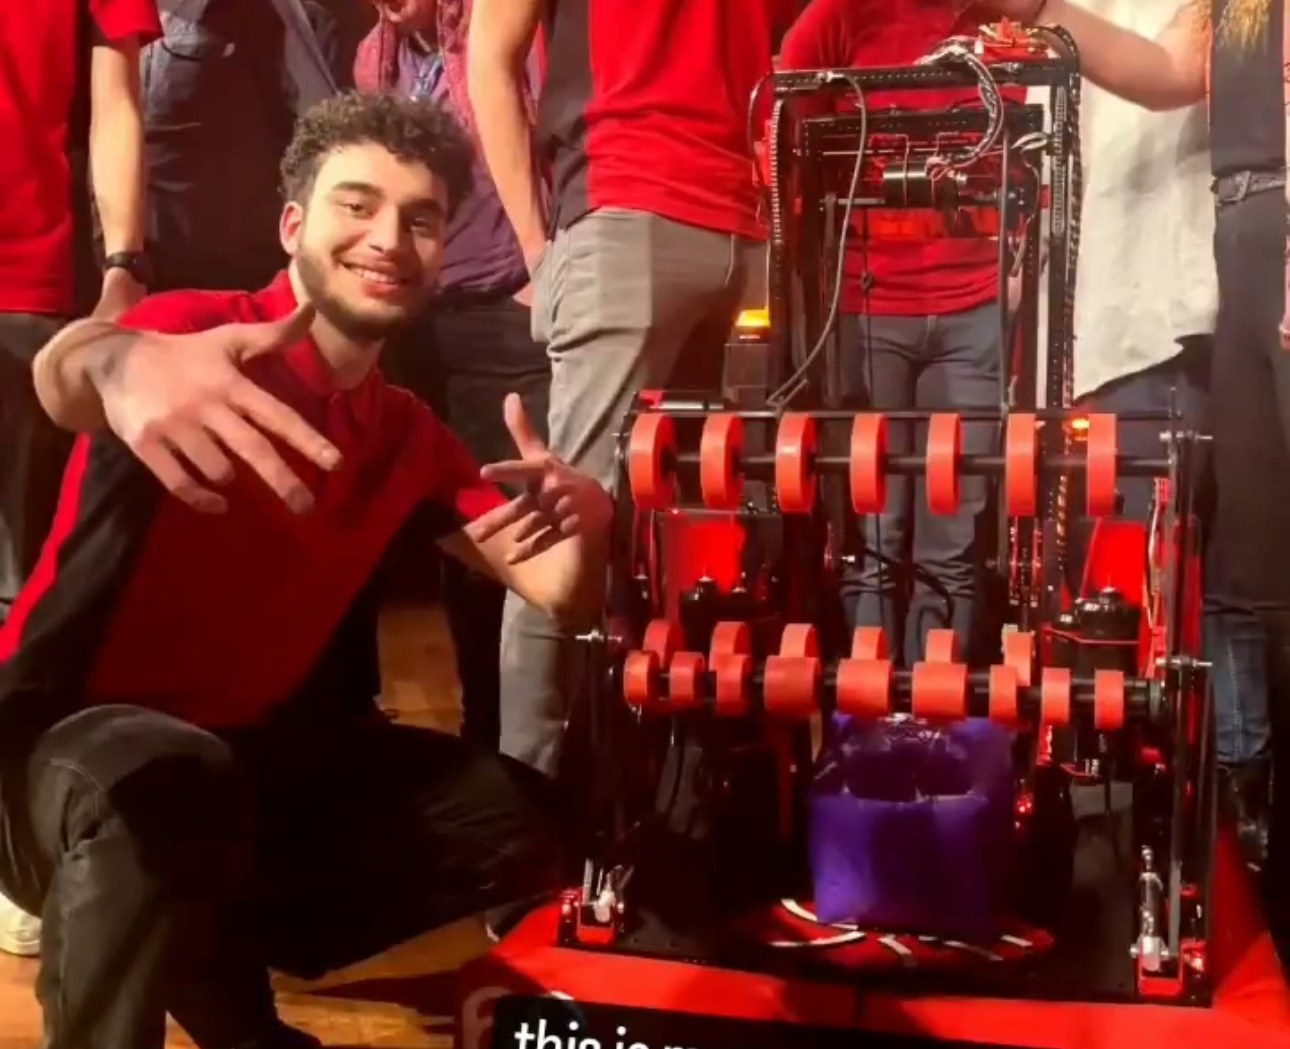
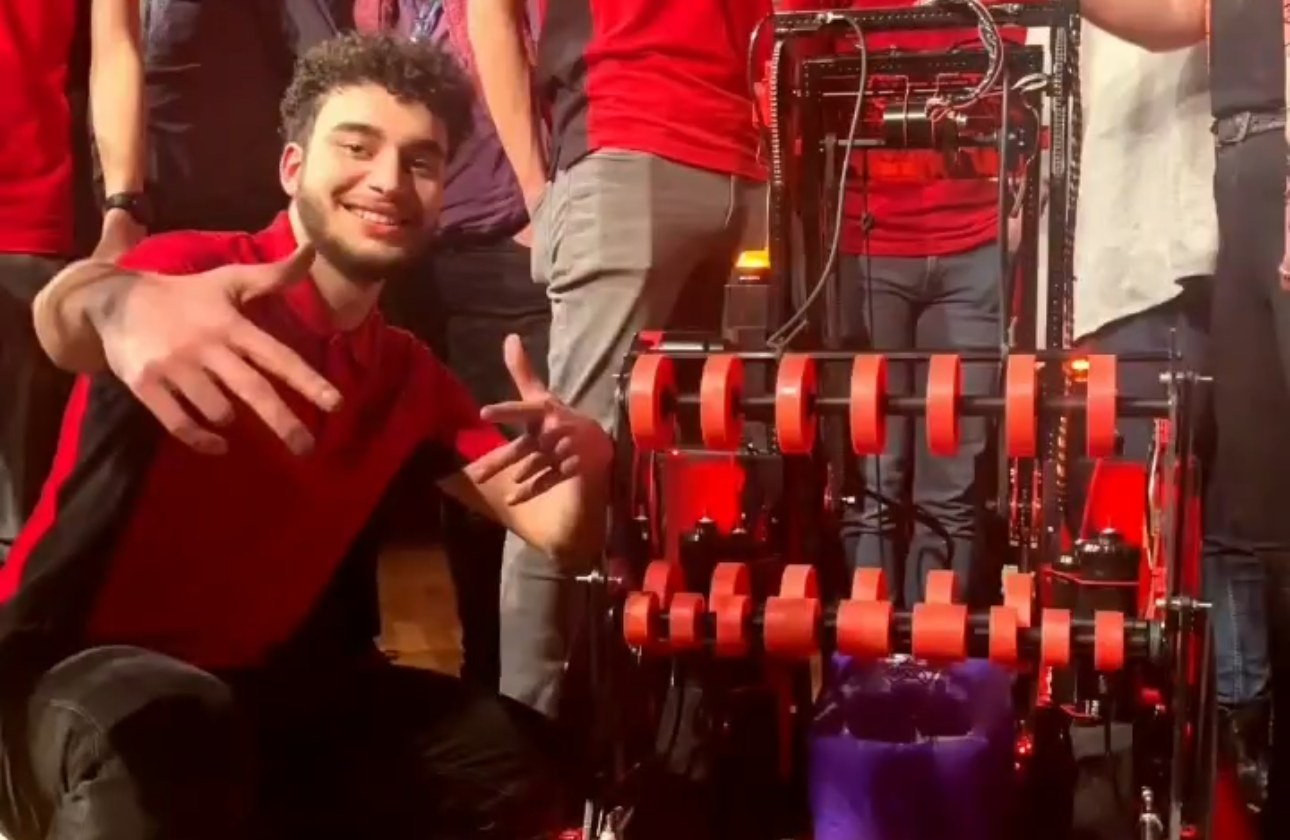
404 fallen tallbike, build page layout, tablet + reduced-motion hero fixes

diff --git a/src/scripts/hero/tallbike.ts b/src/scripts/hero/tallbike.ts
@@ -306,6 +306,14 @@ export type HeroOptions = {
   accent: string;
   reduced: boolean;
   small: boolean;
+  /** tip the bike over around its own long axis, radians (the 404 page) */
+  lie?: number;
+  /** camera pitch override, radians */
+  pitch?: number;
+  /** where the drawing sits, as fractions of the half-width/half-height */
+  anchor?: [number, number];
+  /** draw ground, dimensions and part labels (default true) */
+  furniture?: boolean;
 };
 
 export type HeroScene = {
@@ -331,7 +339,8 @@ type Part = PartDef & {
 };
 
 export function createHero(opts: HeroOptions): HeroScene {
-  const { container, overlay, reduced } = opts;
+  const { container, overlay, reduced, lie = 0, pitch, anchor, furniture = true } = opts;
+  const lieM = euler(lie, 0, 0);
   let small = opts.small;
   let ink = opts.ink;
   let accent = opts.accent;
@@ -406,11 +415,9 @@ export function createHero(opts: HeroOptions): HeroScene {
 
   /** model-space point → screen px */
   const project = (v: V3): [number, number] => {
-    const w = mul(rigM, [
-      (v[0] - BIKE_CENTRE[0]) * rigScale,
-      (v[1] - BIKE_CENTRE[1]) * rigScale,
-      (v[2] - BIKE_CENTRE[2]) * rigScale,
-    ]);
+    let m: V3 = [(v[0] - BIKE_CENTRE[0]) * rigScale, (v[1] - BIKE_CENTRE[1]) * rigScale, (v[2] - BIKE_CENTRE[2]) * rigScale];
+    if (lie) m = mul(lieM, m);
+    const w = mul(rigM, m);
     const x = w[0] + rigPos[0];
     const y = w[1] + rigPos[1];
     return [((x + halfW) / (2 * halfW)) * width, ((halfH - y) / (2 * halfH)) * height];
@@ -461,9 +468,11 @@ export function createHero(opts: HeroOptions): HeroScene {
     // the headline is a banner along the bottom, so the drawing lives in the upper part of the sheet
     const anchorX = small ? 0 : halfW * 0.08;
     const anchorY = halfH * (small ? 0.26 : 0.29) - (1 - easeInOut(a)) * halfH * (small ? 0.05 : 0.17);
-    rigPos = [anchorX - shift * halfW * (small ? 0 : 0.3), anchorY + shift * (small ? halfH * 0.1 : 0), 0];
+    rigPos = anchor
+      ? [anchor[0] * halfW, anchor[1] * halfH, 0]
+      : [anchorX - shift * halfW * (small ? 0 : aspect < 1 ? 0.5 : 0.3), anchorY + shift * (small ? halfH * 0.1 : 0), 0];
     rigScale = 1 - shift * (small ? 0.25 : 0.12);
-    rigM = euler(BASE_ROT_X + tilt.x, BASE_ROT_Y + tilt.y + dragAngle, 0);
+    rigM = euler((pitch ?? BASE_ROT_X) + tilt.x, BASE_ROT_Y + tilt.y + dragAngle, 0);
 
     ctx.setTransform(dpr, 0, 0, dpr, 0, 0);
     ctx.clearRect(0, 0, width, height);
@@ -471,8 +480,10 @@ export function createHero(opts: HeroOptions): HeroScene {
     ctx.lineCap = 'round';
 
     // ground + dimensions live in model space
-    strokeSegs(groundSegs, Math.floor(groundSegs.length * clamp01(intro * 1.4)), identity, ink, 0.35 * (1 - shift * 0.6));
-    strokeSegs(dimSegs, Math.floor(dimSegs.length * d), identity, accent, 1 - shift * 0.5);
+    if (furniture) {
+      strokeSegs(groundSegs, Math.floor(groundSegs.length * clamp01(intro * 1.4)), identity, ink, 0.35 * (1 - shift * 0.6));
+      strokeSegs(dimSegs, Math.floor(dimSegs.length * d), identity, accent, 1 - shift * 0.5);
+    }
 
     // parts: each moves home inside its own window of the timeline
     for (const part of built) {
@@ -497,7 +508,7 @@ export function createHero(opts: HeroOptions): HeroScene {
     }
     ctx.globalAlpha = 1;
 
-    placeLabels(d);
+    if (furniture) placeLabels(d);
   }
 
   function placeLabels(d: number) {
